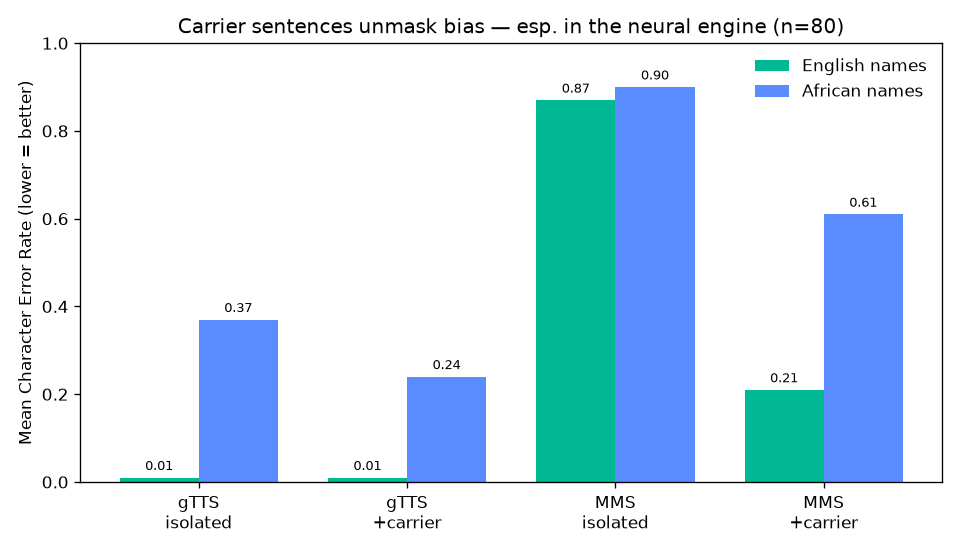
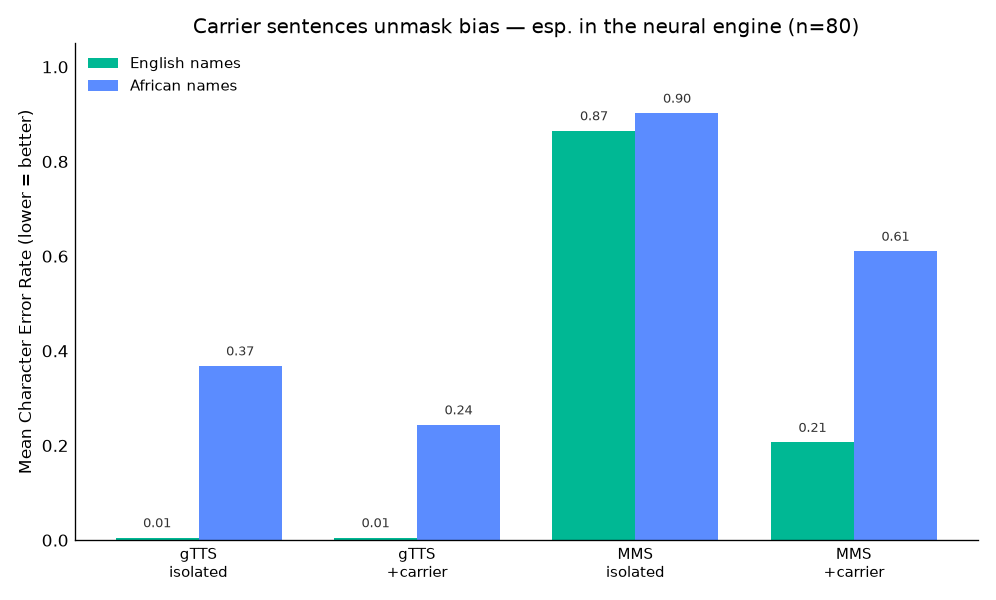
Add reproducibility capstone: make figures + end-to-end CI check
Ties the analysis layer together so every committed figure provably regenerates
from the committed scores, and CI proves it.

- comparison_charts.py: regenerates the engine-comparison and carrier-effect bar
  charts, which were previously committed with no generator (the last figures
  that couldn't be rebuilt from the repo). Palette validated with the dataviz
  checker; faithful to the originals.
- `make figures`: one target that rebuilds every committed figure and report
  from the score tables (comparison charts, forest, per-language forest,
  cross-engine, taxonomy, length check, error tables, master table, and the
  per-language CER bars) with no TTS/ASR stack. Only sensitivity.py is excluded
  (it re-runs Whisper on the audio by design).
- tests/test_pipeline_reproducible.py: drives each analysis entry point against
  the committed data, so CI fails if any figure/report script breaks on the real
  data shapes (the unit tests use synthetic rows and wouldn't catch that).
- Regenerated the 6 figures that had drifted from their generators; README
  documents the guarantee.
- 10 new tests -> 71 pass.

Changed region(s): [[0.0, 0.0308, 1.0, 0.9855], [0.8438, 0.3388, 0.9375, 0.4312], [0.75, 0.6775, 0.875, 0.7391]]

diff --git a/comparison_charts.py b/comparison_charts.py
@@ -1,0 +1,105 @@
+"""Regenerate the engine-comparison and carrier-effect bar charts from scores.
+
+These two figures (`docs/engine_comparison.png`, `docs/carrier_effect.png`) were
+historically committed without a generator, so they could not be reproduced from
+the repo. This script rebuilds both from the committed score tables: a grouped
+bar of English vs African mean CER across a chosen set of runs.
+
+    python comparison_charts.py engines    # docs/engine_comparison.png
+    python comparison_charts.py carrier     # docs/carrier_effect.png
+    python comparison_charts.py all         # both
+
+Reproducible from the committed score tables — no TTS/ASR stack required.
+"""
+from __future__ import annotations
+
+import argparse
+from pathlib import Path
+
+import matplotlib
+matplotlib.use("Agg")            # headless: render straight to a file
+from matplotlib.figure import Figure
+
+from aggregate_results import summarise
+
+ENGLISH = "#00b894"      # two series (English vs African); every bar is also
+AFRICAN = "#5b8cff"      # value-labelled, so colour is never the only cue.
+
+# Named figures: (output, title, [(bar label, run dir), ...]).
+FIGURES = {
+    "engines": (
+        "docs/engine_comparison.png",
+        "Name-pronunciation error by TTS engine (English voice, n=80)",
+        [("gTTS", "outputs"), ("espeak-ng", "outputs_espeak"),
+         ("MMS (neural)", "outputs_mms")],
+    ),
+    "carrier": (
+        "docs/carrier_effect.png",
+        "Carrier sentences unmask bias — esp. in the neural engine (n=80)",
+        [("gTTS\nisolated", "outputs"), ("gTTS\n+carrier", "outputs_gtts_carrier"),
+         ("MMS\nisolated", "outputs_mms"), ("MMS\n+carrier", "outputs_mms_carrier")],
+    ),
+}
+
+
+def build_groups(runs: list[tuple[str, str]]) -> list[dict]:
+    """[(label, run_dir)] -> [{label, english_cer, african_cer}] via summarise."""
+    groups = []
+    for label, run in runs:
+        s = summarise(Path(run))
+        if not s:
+            continue
+        groups.append({"label": label, "english_cer": s["english_cer"],
+                       "african_cer": s["african_cer"]})
+    return groups
+
+
+def render(groups: list[dict], *, title: str, out_path: str | Path) -> Path:
+    if not groups:
+        raise ValueError("no runs to plot")
+    xs = range(len(groups))
+    w = 0.38
+    fig = Figure(figsize=(max(6.0, 1.7 * len(groups) + 1.5), 5.0), dpi=120)
+    ax = fig.add_subplot(111)
+    for i, (key, colour, off) in enumerate(
+            [("english_cer", ENGLISH, -w / 2), ("african_cer", AFRICAN, w / 2)]):
+        for x, g in zip(xs, groups):
+            ax.bar(x + off, g[key], width=w, color=colour,
+                   label=None if x else ("English names" if i == 0 else "African names"))
+            ax.text(x + off, g[key] + 0.015, f"{g[key]:.2f}", ha="center",
+                    va="bottom", fontsize=8, color="#333")
+    ax.set_xticks(list(xs))
+    ax.set_xticklabels([g["label"] for g in groups], fontsize=9)
+    ax.set_ylim(0, 1.05)
+    ax.set_ylabel("Mean Character Error Rate (lower = better)")
+    ax.set_title(title, fontsize=12)
+    ax.spines["top"].set_visible(False)
+    ax.spines["right"].set_visible(False)
+    ax.tick_params(length=0)
+    ax.legend(fontsize=9, loc="upper left", frameon=False)
+    fig.tight_layout()
+    out_path = Path(out_path)
+    out_path.parent.mkdir(parents=True, exist_ok=True)
+    fig.savefig(out_path)
+    return out_path
+
+
+def make(name: str) -> Path:
+    out, title, runs = FIGURES[name]
+    return render(build_groups(runs), title=title, out_path=out)
+
+
+def main():
+    ap = argparse.ArgumentParser(description=__doc__)
+    ap.add_argument("which", choices=[*FIGURES, "all"], default="all", nargs="?")
+    args = ap.parse_args()
+    names = list(FIGURES) if args.which == "all" else [args.which]
+    for name in names:
+        try:
+            print(f"wrote {make(name)}")
+        except ValueError as e:
+            print(f"skipped {name}: {e}")
+
+
+if __name__ == "__main__":
+    main()

diff --git a/tests/test_pipeline_reproducible.py b/tests/test_pipeline_reproducible.py
@@ -1,0 +1,86 @@
+"""End-to-end reproducibility: every analysis runs on the COMMITTED scores.
+
+The other test modules exercise each analysis on synthetic rows. This one closes
+the remaining gap: it drives each real entry point against the committed score
+tables and asserts it produces output without error — so CI fails if any figure
+or report script breaks on the actual data shapes (not just synthetic ones), and
+the "regenerate everything from the repo" claim stays true.
+
+Skips cleanly when the committed outputs are absent (partial checkout). Does not
+cover `sensitivity.py`, which re-runs Whisper on the audio and so needs the
+heavy stack by design.
+"""
+import os
+from pathlib import Path
+
+import pytest
+
+ROOT = Path(__file__).resolve().parent.parent
+
+
+@pytest.fixture(autouse=True)
+def _in_repo_root(monkeypatch):
+    """Scripts resolve run dirs relative to CWD; run from the repo root."""
+    if not (ROOT / "outputs" / "scores.csv").exists():
+        pytest.skip("committed outputs not present")
+    monkeypatch.chdir(ROOT)
+
+
+def test_aggregate_results_summarises_committed_runs():
+    from aggregate_results import summarise
+    s = summarise(Path("outputs"))
+    assert s and s["n"] == 80 and s["engine"] == "gtts"
+
+
+def test_forest_plot_builds_and_renders(tmp_path):
+    import forest_plot
+    rows = forest_plot.build_rows()
+    assert len(rows) >= 4                       # several committed runs
+    out = forest_plot.render(rows, tmp_path / "forest.png")
+    assert out.exists() and out.stat().st_size > 0
+
+
+def test_per_language_forest_builds_and_renders(tmp_path):
+    import per_language_forest
+    rows = per_language_forest.build_rows(Path("outputs"))
+    assert {r["language"] for r in rows} == {"yoruba", "igbo", "hausa"}
+    out = per_language_forest.render(rows, title="t", out_path=tmp_path / "plf.png")
+    assert out.exists()
+
+
+def test_cross_engine_runs_on_committed_carrier_runs(tmp_path):
+    import cross_engine
+    rows = cross_engine.paired(cross_engine.load(Path("outputs_gtts_carrier")),
+                               cross_engine.load(Path("outputs_mms_carrier")))
+    assert len(rows) == 80
+    corr = cross_engine.correlations(rows)
+    assert corr["all"]["rho"] > 0               # positive agreement
+    out = cross_engine.render(rows, corr, label_a="a", label_b="b",
+                              out_path=tmp_path / "ce.png")
+    assert out.exists()
+
+
+def test_error_taxonomy_runs_on_committed_scores(tmp_path):
+    import csv
+    from error_taxonomy import load_lexicon, render_figure, summarise
+    rows = list(csv.DictReader(open("outputs/scores.csv", encoding="utf-8")))
+    s = summarise(rows, load_lexicon("data/common_english_words.txt"))
+    assert s["english"]["recovered_rate"] == 1.0
+    out = render_figure(s, tmp_path / "tax.png")
+    assert out.exists()
+
+
+def test_comparison_charts_regenerate(tmp_path):
+    import comparison_charts
+    for name in ("engines", "carrier"):
+        groups = comparison_charts.build_groups(comparison_charts.FIGURES[name][2])
+        assert len(groups) >= 3
+        out = comparison_charts.render(groups, title=name, out_path=tmp_path / f"{name}.png")
+        assert out.exists()
+
+
+def test_per_run_cer_chart_renders(tmp_path):
+    from ttsbench.analyze import load_scores, plot_cer_by_language, summarize
+    summary = summarize(load_scores("outputs/scores.csv"))
+    out = plot_cer_by_language(summary, tmp_path / "cer.png", title="gtts")
+    assert Path(out).exists()

diff --git a/tests/test_comparison_charts.py b/tests/test_comparison_charts.py
@@ -1,0 +1,25 @@
+"""Tests for the comparison-chart generator (no synthesis data needed)."""
+import pytest
+
+from comparison_charts import render
+
+
+def _g(label, en, af):
+    return {"label": label, "english_cer": en, "african_cer": af}
+
+
+def test_render_writes_png(tmp_path):
+    groups = [_g("gTTS", 0.01, 0.37), _g("espeak", 0.64, 0.90),
+              _g("MMS", 0.87, 0.90)]
+    out = render(groups, title="engines", out_path=tmp_path / "cmp.png")
+    assert out.exists() and out.stat().st_size > 0
+
+
+def test_render_single_group(tmp_path):
+    out = render([_g("gTTS", 0.01, 0.37)], title="one", out_path=tmp_path / "one.png")
+    assert out.exists()
+
+
+def test_render_empty_raises():
+    with pytest.raises(ValueError):
+        render([], title="x", out_path="unused.png")

diff --git a/README.md b/README.md
@@ -47,6 +47,7 @@ name-pronunciation-benchmark/
   cross_engine.py       per-name CER agreement between two engines (Spearman)
   length_confound.py    robustness check: is the gap just a name-length effect?
   error_taxonomy.py     how names fail: recovered / English-substitution / garble
+  comparison_charts.py  engine-comparison + carrier-effect bars (from scores)
   outputs*/             per-run scores.csv + manifest.csv (tracked); audio ignored
   requirements.txt
 ```
@@ -119,9 +120,13 @@ brew install espeak-ng          # macOS (needs Homebrew)
 - **The scored tables are committed; the audio is not.** Each run's `scores.csv`
   and `manifest.csv` are small text and are tracked, so every statistic and
   figure regenerates from the repo with just `pip install -r requirements-dev.txt`
-  — no TTS/ASR stack. `tests/test_reproducibility.py` recomputes the headline
-  numbers from those tables and asserts the documented findings, so they can't
-  silently drift. Only the large regenerable `outputs*/audio/` is git-ignored;
+  — no TTS/ASR stack. **`make figures` rebuilds every committed figure and report
+  from those tables** (the one exception is `sensitivity.py`, which re-runs
+  Whisper on the audio). `tests/test_reproducibility.py` recomputes the headline
+  numbers and asserts the documented findings, and `tests/test_pipeline_reproducible.py`
+  runs each analysis end-to-end on the committed data in CI, so neither the
+  numbers nor the figure scripts can silently drift. Only the large regenerable
+  `outputs*/audio/` is git-ignored;
   for a paper, archive a fixed audio snapshot (zipped release, Git LFS, or
   **Zenodo / OSF**) and cite it.
 - **Pinned versions.** `requirements.txt` and `requirements-dev.txt` pin exact
